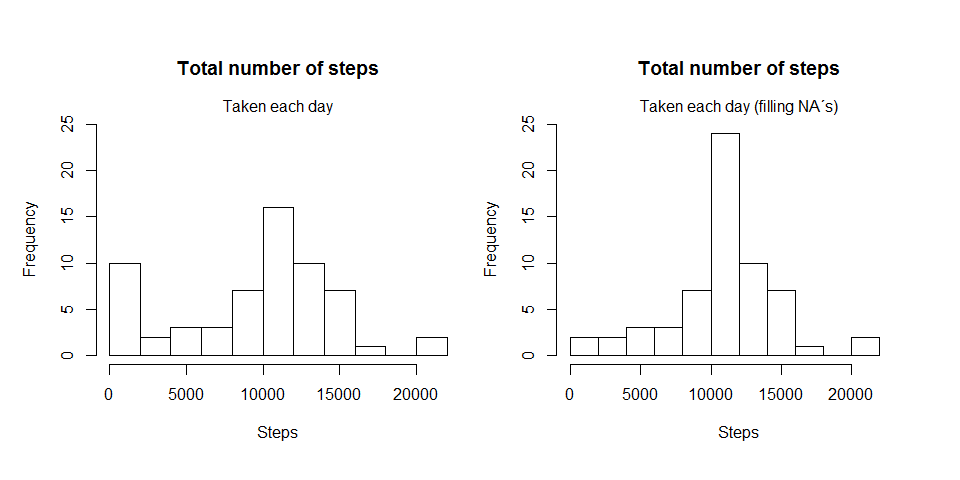
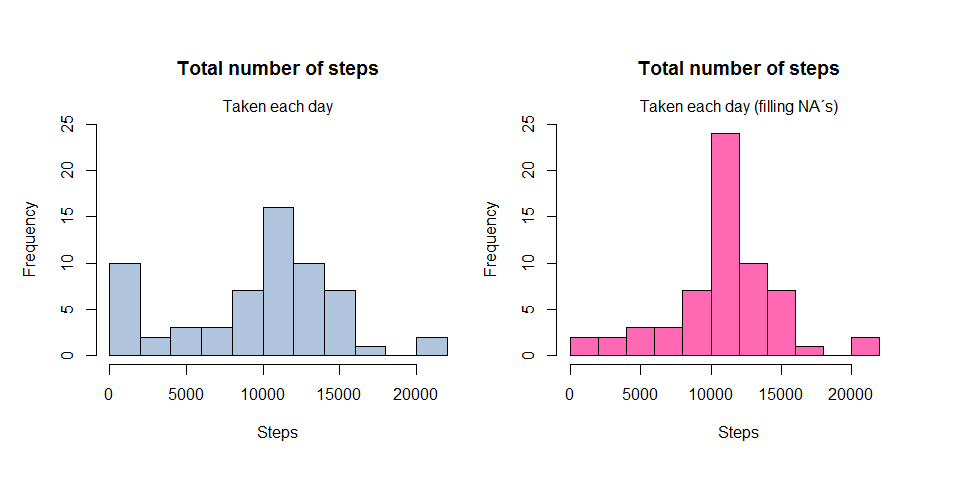
Add files via upload

Changed region(s): [[0.5938, 0.2812, 0.9375, 0.75], [0.0938, 0.4062, 0.4062, 0.75], [0.4375, 0.6875, 0.4688, 0.75]]

diff --git a/PA1_template.html b/PA1_template.html
@@ -233,8 +233,8 @@ activity &lt;- read.csv(&quot;activity.csv&quot;)</code></pre>
 </div>
 <div id="if-you-do-not-understand-the-difference-between-a-histogram-and-a-barplot-research-the-difference-between-them.-make-a-histogram-of-the-total-number-of-steps-taken-each-day." class="section level3">
 <h3>2. If you do not understand the difference between a histogram and a barplot, research the difference between them. Make a histogram of the total number of steps taken each day.</h3>
-<pre class="r"><code>hist(DailySummary$Total.Steps, main = &quot;Total number of steps taken each day&quot;, xlab = &quot;Steps&quot;, breaks = 10, ylim = c(0,25) )</code></pre>
[1 lines of base64/hex data omitted]
+<pre class="r"><code>hist(DailySummary$Total.Steps, main = &quot;Total number of steps taken each day&quot;, xlab = &quot;Steps&quot;, breaks = 10, ylim = c(0,25), col = &quot;lightsteelblue&quot; )</code></pre>
[1 lines of base64/hex data omitted]
 </div>
 <div id="calculate-and-report-the-mean-and-median-of-the-total-number-of-steps-taken-per-day" class="section level3">
 <h3>3. Calculate and report the mean and median of the total number of steps taken per day:</h3>
@@ -314,9 +314,10 @@ hist(
         main = &quot;Total number of steps taken each day&quot;,
         xlab = &quot;Steps&quot;,
         sub = &quot;With filled missing values&quot;,
-        ylim = c(0,25)
+        ylim = c(0,25),
+        col = &quot;hotpink&quot;
 )</code></pre>
[2 lines of base64/hex data omitted]
 <p>The mean total number of steps taken per day.</p>
 <pre class="r"><code>mean(DailySummaryFill$Total.Steps)</code></pre>
 <pre><code>## [1] 10766.19</code></pre>
@@ -336,7 +337,8 @@ hist(
         main = &quot;Total number of steps&quot;, 
         xlab = &quot;Steps&quot;, 
         breaks = 10, 
-        ylim = c(0,25) )
+        ylim = c(0,25),
+        col = &quot;lightsteelblue&quot;)
 mtext(&quot;Taken each day&quot;)
 hist(
         DailySummaryFill$Total.Steps,
@@ -344,10 +346,11 @@ hist(
         main = &quot;Total number of steps&quot;,
         xlab = &quot;Steps&quot;,
         ylim = c(0,25),
-        xlim = c(0,24000)
+        xlim = c(0,24000),
+        col = &quot;hotpink&quot;
 )
 mtext(&quot;Taken each day (filling NA´s)&quot;)</code></pre>
[2 lines of base64/hex data omitted]
 </div>
 </div>
 <div id="are-there-differences-in-activity-patterns-between-weekdays-and-weekends" class="section level2">
